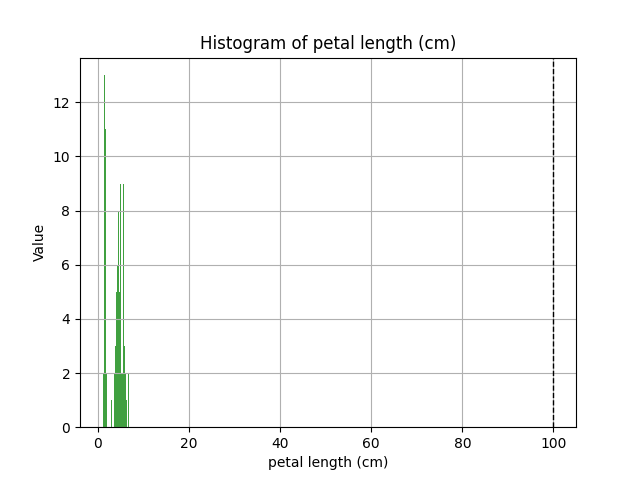
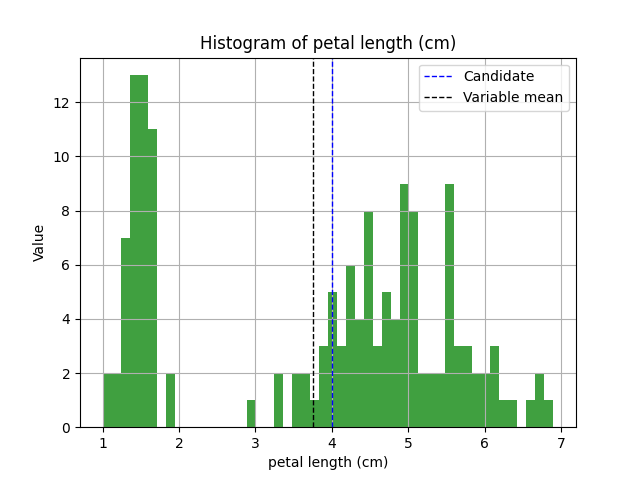
update with boxplot and legends

Changed region(s): [[0.375, 0.125, 0.9062, 0.9375], [0.125, 0.1562, 0.2812, 0.9375], [0.2812, 0.9062, 0.3125, 0.9375]]

diff --git a/index.py b/index.py
@@ -202,6 +202,22 @@ def update_output1(value):
             f.write(b"failed to get variable\n")
             f.close()
 
+    try:
+        input_data = {"variable": value, "mode": 2}
+        # input_data = json.dumps(input_data)
+        response = requests.get("http://localhost:8000/get_data2", input_data)
+        file = open("./downloaded_images/box_global_" + value + ".png", "wb")
+        file.write(response.content)
+        file.close()
+        with open("log.txt", "wb") as f:
+            f.write(response.content)
+            f.close()
+        # update_graph(str("./downloaded_images/" + value + ".png"))
+    except:
+        with open("log.txt", "wb") as f:
+            f.write(b"failed to get variable\n")
+            f.close()
+
     return
 
 
@@ -225,6 +241,21 @@ def update_output2(value):
             f.write(b"failed to get variable\n")
             f.close()
 
+    try:
+        input_data = {"variable": value, "mode": 2}
+        # input_data = json.dumps(input_data)
+        response = requests.get("http://localhost:8000/get_data2", input_data)
+        file = open("./downloaded_images/box_similar_" + value + ".png", "wb")
+        file.write(response.content)
+        file.close()
+        with open("log.txt", "wb") as f:
+            f.write(response.content)
+            f.close()
+        # update_graph(str("./downloaded_images/" + value + ".png"))
+    except:
+        with open("log.txt", "wb") as f:
+            f.write(b"failed to get variable\n")
+            f.close()
     return
 
 
@@ -240,6 +271,22 @@ def update_graph1(value):
 def update_graph2(value):
     time.sleep(1)
     im_pil = Image.open("./downloaded_images/similar_" + value + ".png")
+    fig = px.imshow(im_pil)
+    return fig
+
+
+@app.callback(Output("interactive-image3", "figure"), Input("demo-dropdown2", "value"))
+def update_graph3(value):
+    time.sleep(1)
+    im_pil = Image.open("./downloaded_images/box_global_" + value + ".png")
+    fig = px.imshow(im_pil)
+    return fig
+
+
+@app.callback(Output("interactive-image4", "figure"), Input("demo-dropdown2", "value"))
+def update_graph4(value):
+    time.sleep(1)
+    im_pil = Image.open("./downloaded_images/box_similar_" + value + ".png")
     fig = px.imshow(im_pil)
     return fig
 

diff --git a/main.py b/main.py
@@ -54,12 +54,23 @@ def graph_data(variable: hug.types.text, mode: hug.types.number, hug_timer=3):
     n, bins, patches = plt.hist(
         data[variable], 50, density=False, facecolor="g", alpha=0.75
     )
-    plt.axvline(candidate[variable][0], color="k", linestyle="dashed", linewidth=1)
-    # plt.axvline(
-    #    model.X_train[variable].mean(), color="k", linestyle="dashed", linewidth=1
-    # )
+    plt.axvline(
+        candidate[variable][0],
+        color="b",
+        linestyle="dashed",
+        linewidth=1,
+        label="Candidate",
+    )
+    plt.axvline(
+        data[variable].mean(),
+        color="k",
+        linestyle="dashed",
+        linewidth=1,
+        label="Variable mean",
+    )
     plt.xlabel(variable)
     plt.ylabel("Value")
+    plt.legend()
     plt.title("Histogram of " + variable)
     plt.grid(True)
     if mode == 1:
@@ -69,3 +80,30 @@ def graph_data(variable: hug.types.text, mode: hug.types.number, hug_timer=3):
     plt.savefig("./images/" + variable + ".png")
     plt.clf()
     return "./images/" + variable + ".png"
+
+
+@hug.get("/get_data2", output=hug.output_format.image("png"))
+@hug.local()
+def graph_box(variable: hug.types.text, mode: hug.types.number, hug_timer=3):
+    """Export graph candidate application data"""
+    if mode != 1:
+        labels = model.neighbours.labels_
+        candidate_cluster = model.predict_cluster(candidate)
+        similar = model.X_train[labels == candidate_cluster]
+        data = pd.DataFrame(similar, columns=X.columns)
+    else:
+        data = X
+
+    plt.boxplot(data[variable])
+    plt.scatter(1, candidate[variable])
+    plt.annotate("Candidate", (1, candidate[variable]))
+    plt.xticks(ticks=[1], labels=[variable])
+    plt.title("Boxplot of " + variable)
+
+    if mode == 1:
+        variable = "global_" + variable
+    else:
+        variable = "similar_" + variable
+    plt.savefig("./images/box_" + variable + ".png")
+    plt.clf()
+    return "./images/box_" + variable + ".png"

diff --git a/layouts.py b/layouts.py
@@ -144,6 +144,23 @@ plotLayout1 = html.Div(
                 )
             },
         ),
+        dcc.Graph(
+            id="interactive-image3",
+            style={"width": "90vh", "height": "60vh"},
+            figure={
+                "layout": go.Layout(
+                    # width = 800,
+                    height=300,
+                    xaxis={
+                        "zeroline": False,
+                        "showgrid": False,
+                        "visible": False,
+                        "color": "#FFFFFF",
+                    },
+                    yaxis={"showgrid": False, "zeroline": False, "visible": False},
+                )
+            },
+        ),
     ]
 )
 plotLayout2 = html.Div(
@@ -151,6 +168,23 @@ plotLayout2 = html.Div(
         html.H4("\nVariable distribution"),
         dcc.Graph(
             id="interactive-image2",
+            style={"width": "90vh", "height": "60vh"},
+            figure={
+                "layout": go.Layout(
+                    # width = 800,
+                    height=300,
+                    xaxis={
+                        "zeroline": False,
+                        "showgrid": False,
+                        "visible": False,
+                        "color": "#FFFFFF",
+                    },
+                    yaxis={"showgrid": False, "zeroline": False, "visible": False},
+                )
+            },
+        ),
+        dcc.Graph(
+            id="interactive-image4",
             style={"width": "90vh", "height": "60vh"},
             figure={
                 "layout": go.Layout(
